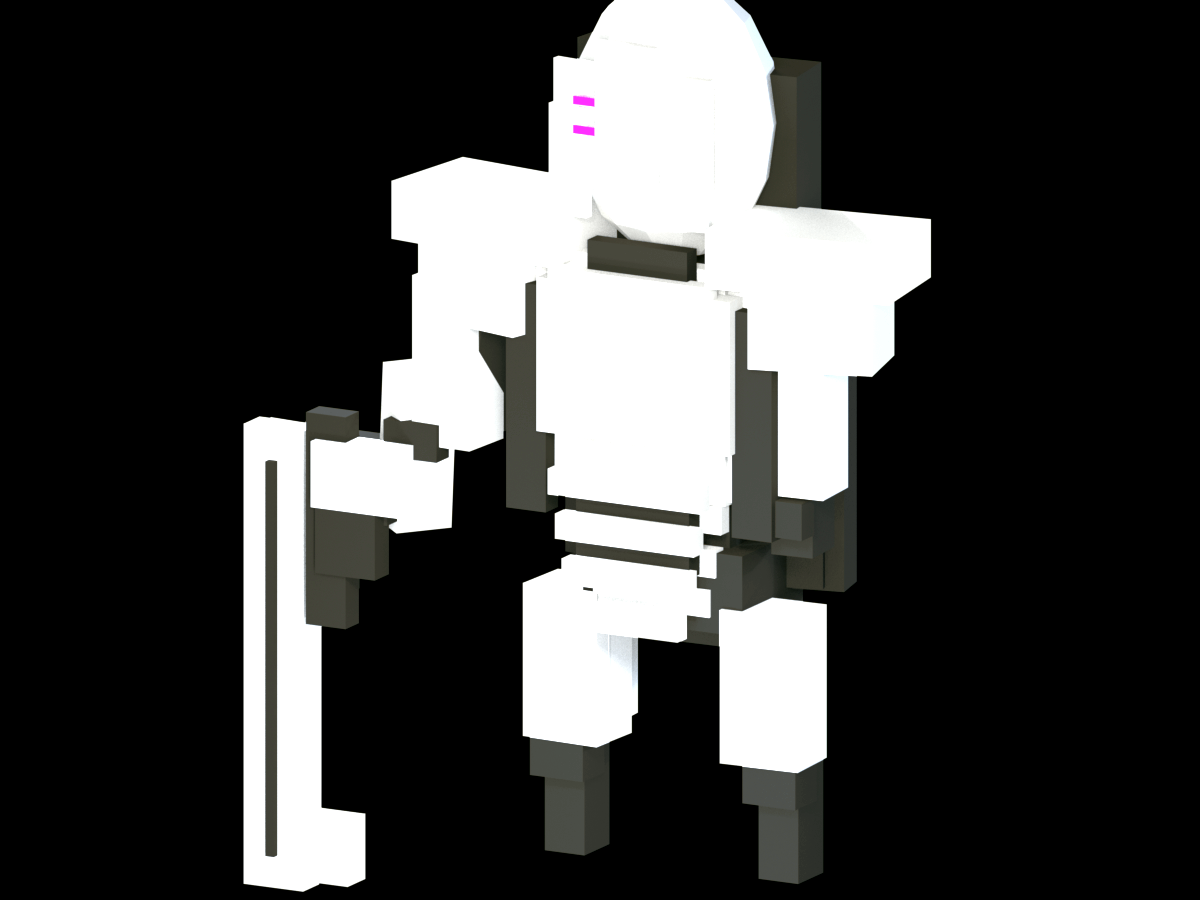
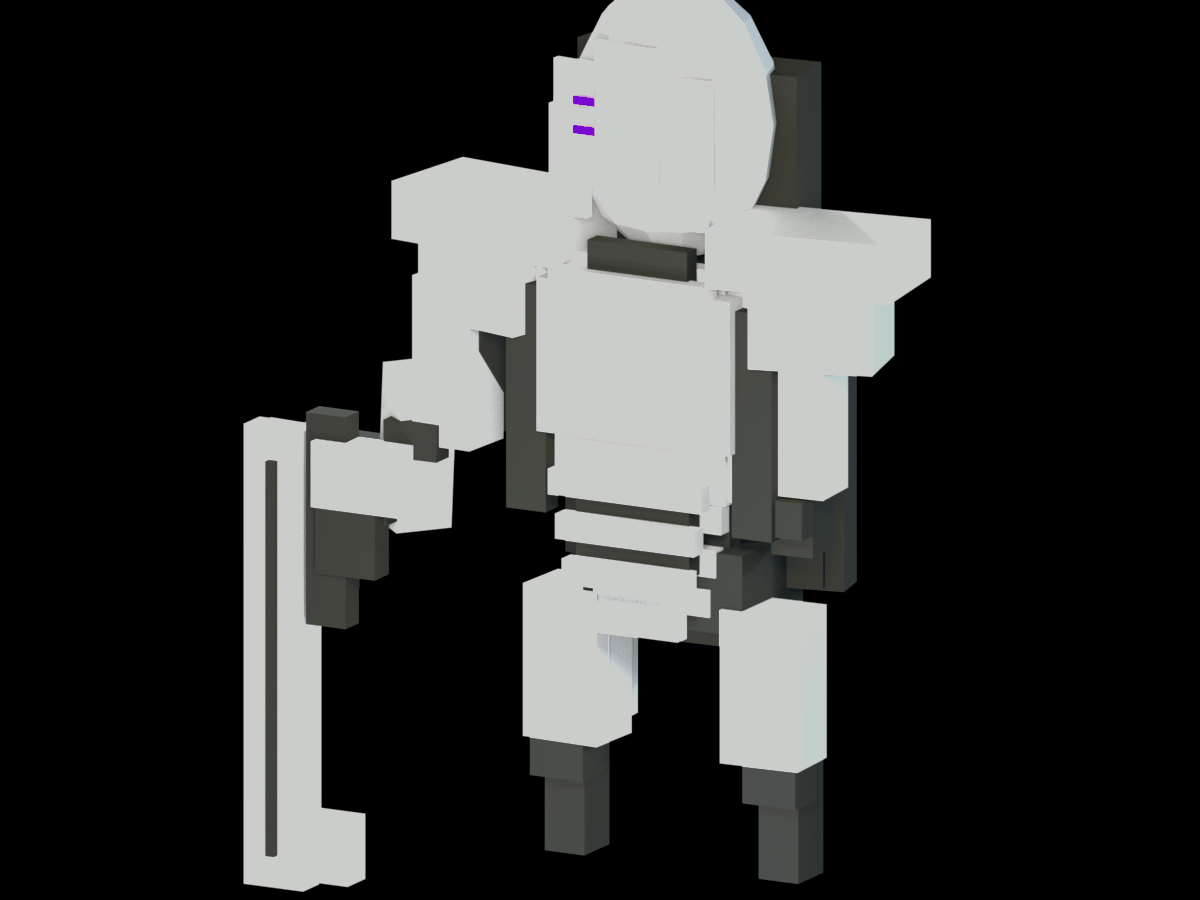
Lane B: Mikage character reveal V0.1 (public candidate, hero render regraded)

Changed region(s): [[0.185, 0.0, 0.8017, 0.9956]]

diff --git a/production/character/build_log/MIKAGE_CHARACTER_REVEAL_V0_1/NOTE.md b/production/character/build_log/MIKAGE_CHARACTER_REVEAL_V0_1/NOTE.md
@@ -1,6 +1,15 @@
 # MIKAGE CHARACTER REVEAL V0.1 (Lane B)
 Source render: production/character/reviews/MIKAGE_RIDER_SOLO_EEVEE_V0_2_CONTACT_SHEET.png (Codex Lane A, commit 72232eb)
-Lane B compose (PIL/ffmpeg, no Blender): cropped front-3/4 + violet panel, graded de-blue toward neutral porcelain, composed brand hero card (1080x1920) with chrome + wordmark + tagline.
-Status: CANDIDATE-OF-RECORD for Mikage character (stylized blockout level). NOT canon-locked, NOT asset-locked.
-Evolution watchlist (later): longer/clearer hair mass, V-taper mantle, blade grip wrap, de-blocky proportions toward 2D key-art elegance.
-Milestone: first complete-enough Mikage character shipped to screen (faceless 2-slit porcelain + Zenith Blade, void, on-brand).
+Lane B compose (PIL/ffmpeg, no Blender): cropped front-3/4 + violet panel.
+
+STATUS: PUBLIC_CANDIDATE (hero render REGRADED after GPT critique). NOT final, NOT canon-locked, NOT asset-locked.
+
+Hero-render fix applied (v2 grade, from RAW source — first grade had clipped highlights):
+- Highlight recovery (curves) -> porcelain regains form; armor layering + porcelain/graphite separation now read.
+- Slits recolored from hot magenta to controlled violet (#~8C0AD2), glow reduced.
+- Mild de-blue, no saturation boost.
+Confirmed: source had headroom; no Codex re-render needed.
+
+Remaining gap (NOT grade-fixable -> future render/geometry pass): blade grip wrap, blocky proportions, longer hair, mantle. These are geometry, carried to evolution watchlist.
+
+Repo/state (Claude-verified): files saved at this path; render is from solo V0.2; git = NOT yet committed (operator commits).
